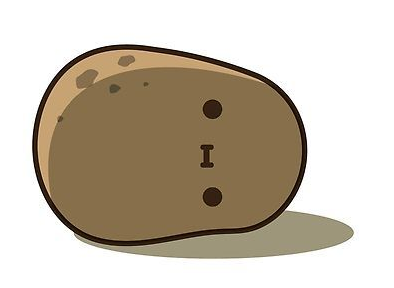
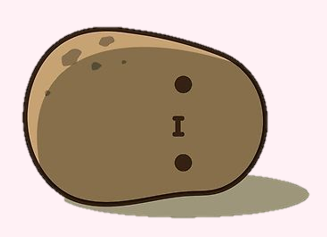
Add files via upload

diff --git a/index.html b/index.html
@@ -4,8 +4,8 @@
 <head>
   <meta charset="utf-8">
   <title>♥ Galia's Personal Site</title>
+  <link rel="stylesheet" href="css/styles.css">
 </head>
-
 <body>
   <table cellspacing="20">
     <tr>
@@ -43,6 +43,10 @@
       </tr>
     </tbody>
   </table>
+  <hr>
+  <a href="../I love smoothies/smoothielove.html" >
+    <img class="dancingpotato" src="https://i.pinimg.com/originals/76/f8/29/76f829a3ce97ae4fb0d8d737a220b4b2.png" alt="">
+  </a>
   <hr>
   <h3>send me love letters</h3>
   <form action="mailto:galiabendavid10@gmail.com" method="post" enctype="text/plain">

diff --git a/dislikes.html b/dislikes.html
@@ -3,6 +3,7 @@
   <head>
     <meta charset="utf-8">
     <title>dislikes</title>
+    <link rel="stylesheet" href="css/styles.css">
   </head>
   <body>
     <h3><strong>dislikes</strong></h3>
@@ -10,6 +11,6 @@
         <li>metal music</li>
         <li>christmas</li>
         <li>dogs</li>
-    </ul>  
+    </ul>
   </body>
 </html>

diff --git a/about me.html b/about me.html
@@ -3,9 +3,10 @@
   <head>
     <meta charset="utf-8">
     <title>about me</title>
+    <link rel="stylesheet" href="css/styles.css">
   </head>
   <body>
-    <p><strong>about me</strong></p>
+    <h3><strong>about me</strong></h3>
   <ul>
     <li>21</li>
     <li>feminist</li>

diff --git a/css/styles.css b/css/styles.css
@@ -1,0 +1,18 @@
+body {
+  background-color: #fff1f5;
+}
+
+hr {
+  border: 1px dashed black;
+}
+
+h3 {
+  color: rgb(228, 129, 93);
+}
+h1 {
+  color: rgb(156, 75, 40);
+}
+/*class selectors*/
+.dancingpotato {
+  height: 100px;
+}

diff --git a/skills.html b/skills.html
@@ -4,8 +4,9 @@
 <head>
   <meta charset="utf-8">
   <title>skills</title>
+  <link rel="stylesheet" href="css/styles.css">
 </head>
-
+<h3>skills</h3>
 <body>
   <table cellspacing="20">
     <tr>

diff --git a/likes.html b/likes.html
@@ -3,6 +3,7 @@
   <head>
     <meta charset="utf-8">
     <title>likes</title>
+    <link rel="stylesheet" href="css/styles.css">
   </head>
   <body>
     <h3><strong>likes</strong></h3>
